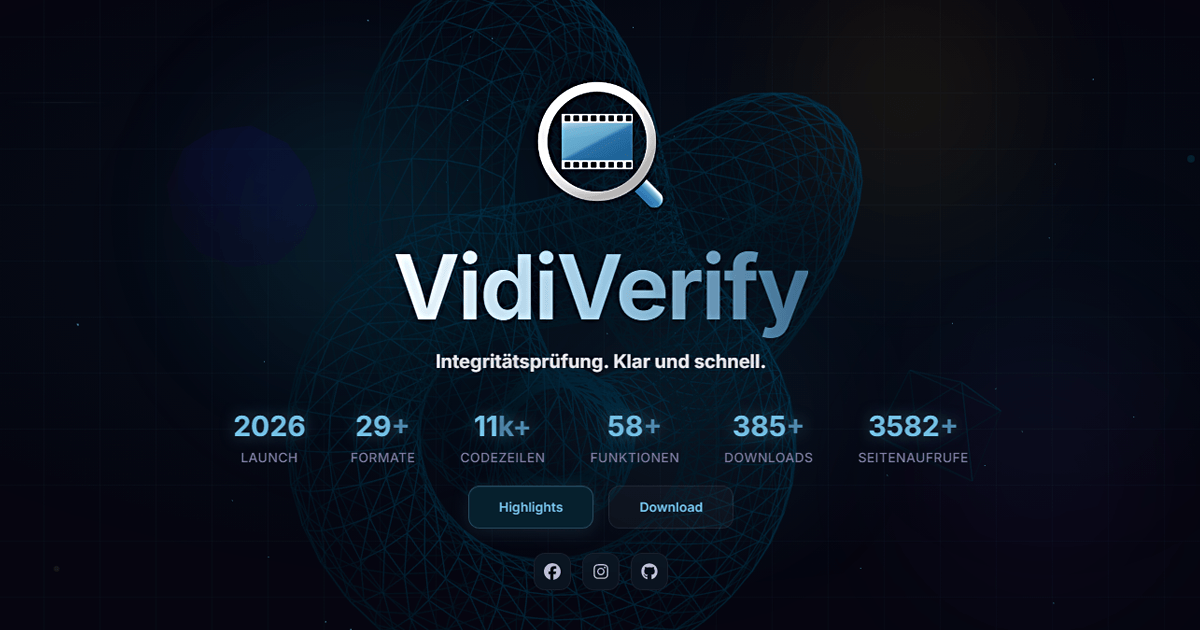
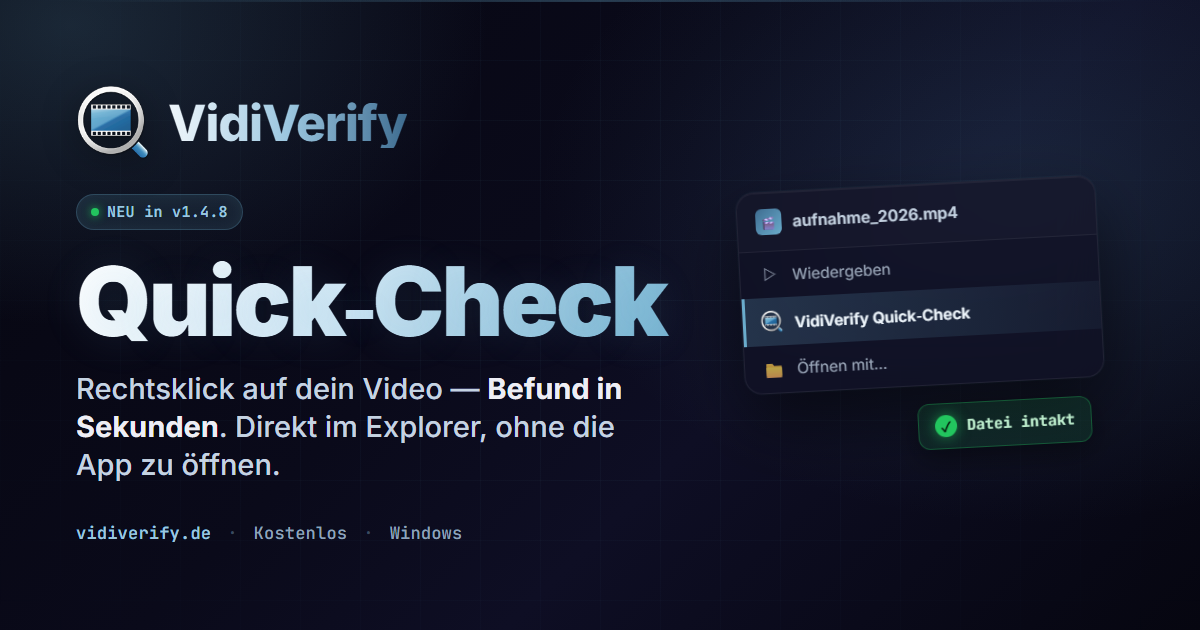
feat(web): Neues OG-Vorschaubild (Quick-Check) + reproduzierbarer Generator
- public/og-image.png neu (1200x630): Quick-Check als Headliner im echten
  Seiten-Look (Tiefschwarz/Cyan, gradient-text-vivid-Wortmarke, Glas-
  Kontextmenue-Mock mit „VidiVerify Quick-Check" + grünem „Datei intakt")
- tools/og-image/: reproduzierbarer Generator — og_card.template.html
  (RELEASE-Stellen: Pille/Headline/Subline), build-og.mjs (Logo als base64
  eingebettet, Render via lokalem Chrome/Edge headless), README.md
- index.html: og:image:alt / twitter:image:alt aufs neue Motiv (Quick-Check)
- eslint.config.js: tools/** ignorieren (Node-Hilfsskripte, wie scripts/**)

Beim Crawlen von vidiverify.de/.com (Facebook/X/LinkedIn/WhatsApp/Discord)
wird ab jetzt dieses Bild als Link-Thumbnail geholt.

diff --git a/tools/og-image/og_card.template.html b/tools/og-image/og_card.template.html
@@ -1,0 +1,186 @@
+<!doctype html>
+<html lang="de">
+<head>
+<meta charset="utf-8" />
+<!--
+  OG-Card-Template fuer vidiverify.de (1200x630).
+  Beim Release nur die markierten Textstellen anpassen (Pille-Version,
+  Headline, Subline), dann `node tools/og-image/build-og.mjs` ausfuehren.
+  __LOGO_B64__ wird vom Build-Skript durch das eingebettete Logo ersetzt.
+-->
+<style>
+@import url('https://fonts.googleapis.com/css2?family=Inter:wght@400;500;600;700;800;900&family=JetBrains+Mono:wght@500;600&display=swap');
+
+* { margin:0; padding:0; box-sizing:border-box; }
+
+html,body {
+  width:1200px; height:630px; overflow:hidden;
+  font-family:"Inter", system-ui, -apple-system, "Segoe UI", sans-serif;
+  -webkit-font-smoothing:antialiased;
+}
+
+.card {
+  position:relative; width:1200px; height:630px; overflow:hidden;
+  background:
+    radial-gradient(820px 560px at 86% 30%, rgba(74,125,160,0.20), transparent 60%),
+    radial-gradient(720px 520px at 6% 4%, rgba(106,172,204,0.20), transparent 58%),
+    linear-gradient(135deg, #060610 0%, #0a0a1a 42%, #0e0e24 62%, #060610 100%);
+  color:#eeeef5;
+}
+
+/* feines Raster */
+.grid {
+  position:absolute; inset:0;
+  background-image:
+    linear-gradient(rgba(106,172,204,0.045) 1px, transparent 1px),
+    linear-gradient(90deg, rgba(106,172,204,0.045) 1px, transparent 1px);
+  background-size:60px 60px;
+  -webkit-mask-image:radial-gradient(900px 600px at 50% 45%, #000 30%, transparent 88%);
+          mask-image:radial-gradient(900px 600px at 50% 45%, #000 30%, transparent 88%);
+}
+
+/* dezente Diagonal-Lichtkante oben */
+.sheen {
+  position:absolute; top:0; left:0; right:0; height:2px;
+  background:linear-gradient(90deg, transparent 6%, rgba(106,172,204,0.30) 50%, transparent 94%);
+}
+
+.inner {
+  position:absolute; inset:0; display:flex; align-items:center;
+  padding:0 76px;
+}
+
+/* linke Spalte */
+.left { width:640px; }
+
+.brandrow { display:flex; align-items:center; gap:18px; margin-bottom:34px; }
+.brandrow img { width:74px; height:74px; filter:drop-shadow(0 6px 18px rgba(0,0,0,0.45)); }
+.wordmark {
+  font-size:50px; font-weight:800; letter-spacing:-1.2px; line-height:1;
+  background:linear-gradient(to right, #f0f7fc, #9cc7e0, #3e6c90);
+  -webkit-background-clip:text; background-clip:text; -webkit-text-fill-color:transparent;
+}
+
+.pill {
+  display:inline-flex; align-items:center; gap:8px;
+  font-family:"JetBrains Mono", ui-monospace, monospace;
+  font-size:15px; font-weight:600; letter-spacing:0.3px;
+  color:#9cc7e0; padding:7px 14px; border-radius:999px;
+  background:rgba(106,172,204,0.10);
+  border:1px solid rgba(106,172,204,0.28);
+  box-shadow:0 0 18px rgba(106,172,204,0.10) inset;
+  margin-bottom:24px;
+}
+.pill .dot { width:8px; height:8px; border-radius:50%; background:#22c55e; box-shadow:0 0 10px #22c55e; }
+
+h1 {
+  font-size:96px; font-weight:900; letter-spacing:-3px; line-height:0.98;
+  margin-bottom:22px;
+  background:linear-gradient(120deg, #ffffff 0%, #cfe6f4 42%, #6aaccc 100%);
+  -webkit-background-clip:text; background-clip:text; -webkit-text-fill-color:transparent;
+  text-shadow:0 2px 40px rgba(106,172,204,0.12);
+}
+
+.sub { font-size:29px; font-weight:500; line-height:1.32; color:#c5d3e2; max-width:585px; }
+.sub b { color:#eeeef5; font-weight:700; }
+
+.meta {
+  margin-top:38px; display:flex; align-items:center; gap:16px;
+  font-family:"JetBrains Mono", ui-monospace, monospace;
+  font-size:17px; color:#8fa3bb; letter-spacing:0.2px;
+}
+.meta .sep { color:#3a4a60; }
+.meta .url { color:#9cc7e0; font-weight:600; }
+
+/* rechte Spalte: Kontextmenue-Mock */
+.right { flex:1; display:flex; align-items:center; justify-content:center; }
+
+.menu {
+  width:360px; border-radius:18px; overflow:hidden;
+  background:rgba(15,15,35,0.72);
+  border:1px solid rgba(255,255,255,0.07);
+  box-shadow:0 30px 70px rgba(0,0,0,0.55), 0 0 0 1px rgba(106,172,204,0.05),
+             inset 0 1px 0 rgba(255,255,255,0.05);
+  backdrop-filter:blur(20px);
+  transform:rotate(-3deg);
+}
+.menu .fname {
+  display:flex; align-items:center; gap:11px;
+  padding:16px 18px; font-size:16px; color:#c5d3e2; font-weight:600;
+  border-bottom:1px solid rgba(255,255,255,0.06);
+  background:rgba(255,255,255,0.02);
+}
+.menu .fname .ico {
+  width:26px; height:26px; border-radius:6px;
+  background:linear-gradient(135deg,#3e6c90,#6aaccc);
+  display:flex; align-items:center; justify-content:center;
+  font-size:13px;
+}
+.menu .row {
+  display:flex; align-items:center; gap:12px;
+  padding:13px 18px; font-size:15.5px; color:#9aa6b8;
+}
+.menu .row.active {
+  color:#eef6fc; font-weight:600;
+  background:linear-gradient(90deg, rgba(106,172,204,0.22), rgba(106,172,204,0.06));
+  border-left:3px solid #6aaccc; padding-left:15px;
+}
+.menu .row img { width:22px; height:22px; }
+.menu .row .glyph { width:22px; text-align:center; opacity:0.7; }
+
+.result {
+  margin-top:14px; display:flex; align-items:center; gap:10px;
+  padding:11px 16px; border-radius:12px; width:max-content;
+  margin-left:auto; margin-right:8px;
+  background:rgba(34,197,94,0.12); border:1px solid rgba(34,197,94,0.32);
+  color:#bff0cf; font-size:15px; font-weight:600;
+  font-family:"JetBrains Mono", ui-monospace, monospace;
+  box-shadow:0 10px 30px rgba(0,0,0,0.4);
+  transform:rotate(-3deg);
+}
+.result .check {
+  width:22px; height:22px; border-radius:50%; background:#22c55e; color:#06210f;
+  display:flex; align-items:center; justify-content:center; font-size:14px; font-weight:900;
+  box-shadow:0 0 14px rgba(34,197,94,0.6);
+}
+</style>
+</head>
+<body>
+<div class="card">
+  <div class="grid"></div>
+  <div class="sheen"></div>
+  <div class="inner">
+    <div class="left">
+      <div class="brandrow">
+        <img src="__LOGO_B64__" alt="VidiVerify" />
+        <span class="wordmark">VidiVerify</span>
+      </div>
+      <!-- RELEASE: Versions-Pille anpassen -->
+      <span class="pill"><span class="dot"></span>NEU in v1.4.8</span>
+      <!-- RELEASE: Headline (Headline-Feature des Releases) -->
+      <h1>Quick&#8209;Check</h1>
+      <!-- RELEASE: Subline (kurze Nutzen-Beschreibung) -->
+      <div class="sub">Rechtsklick auf dein Video &mdash; <b>Befund in Sekunden</b>. Direkt im Explorer, ohne die App zu &ouml;ffnen.</div>
+      <div class="meta">
+        <span class="url">vidiverify.de</span>
+        <span class="sep">&middot;</span>
+        <span>Kostenlos</span>
+        <span class="sep">&middot;</span>
+        <span>Windows</span>
+      </div>
+    </div>
+    <div class="right">
+      <div>
+        <div class="menu">
+          <div class="fname"><span class="ico">&#127916;</span>aufnahme_2026.mp4</div>
+          <div class="row"><span class="glyph">&#9655;</span>Wiedergeben</div>
+          <div class="row active"><img src="__LOGO_B64__" alt="" />VidiVerify Quick&#8209;Check</div>
+          <div class="row"><span class="glyph">&#128193;</span>&Ouml;ffnen mit&hellip;</div>
+        </div>
+        <div class="result"><span class="check">&#10003;</span>Datei intakt</div>
+      </div>
+    </div>
+  </div>
+</div>
+</body>
+</html>

diff --git a/index.html b/index.html
@@ -31,7 +31,7 @@
       <meta property="og:image" content="https://vidiverify.de/og-image.png" />
       <meta property="og:image:width" content="1200" />
       <meta property="og:image:height" content="630" />
-      <meta property="og:image:alt" content="VidiVerify – Der 1-Klick-Check für deine Videos. Logo und Übersicht der unterstützten Formate, Codecs und Container." />
+      <meta property="og:image:alt" content="VidiVerify Quick-Check – Rechtsklick auf eine Videodatei prüft Integrität und Format in Sekunden direkt im Windows-Explorer." />
       <meta property="og:site_name" content="VidiVerify" />
       <meta property="og:locale" content="de_DE" />
 
@@ -43,7 +43,7 @@
          content="VidiVerify – 1-Klick-Check für Videos: Integrität, Format, Codec, MAP-Protokoll – revisionssicher. Für Archive & Plex/Jellyfin. Kostenlos, Windows."
       />
       <meta name="twitter:image" content="https://vidiverify.de/og-image.png" />
-      <meta name="twitter:image:alt" content="VidiVerify – Der 1-Klick-Check für deine Videos. Logo und Übersicht der unterstützten Formate, Codecs und Container." />
+      <meta name="twitter:image:alt" content="VidiVerify Quick-Check – Rechtsklick auf eine Videodatei prüft Integrität und Format in Sekunden direkt im Windows-Explorer." />
 
       <!-- JSON-LD Structured Data -->
       <script type="application/ld+json">

diff --git a/eslint.config.js b/eslint.config.js
@@ -8,7 +8,7 @@ import jsxA11y from "eslint-plugin-jsx-a11y";
 
 export default [
    {
-      ignores: ["build/**", "dist/**", "node_modules/**", "scripts/**"],
+      ignores: ["build/**", "dist/**", "node_modules/**", "scripts/**", "tools/**"],
    },
    js.configs.recommended,
    ...tseslint.configs.recommended,

diff --git a/tools/og-image/README.md b/tools/og-image/README.md
@@ -1,0 +1,38 @@
+# OG-Image-Generator
+
+Erzeugt das Open-Graph-Vorschaubild `public/og-image.png` (1200×630) — das
+Bild, das Facebook, X, LinkedIn, WhatsApp, Discord & Co. als Thumbnail
+anzeigen, wenn jemand `vidiverify.de` / `vidiverify.com` als Link postet.
+
+Die Meta-Tags in `index.html` (`og:image`, `twitter:image`) zeigen auf den
+festen Pfad `https://vidiverify.de/og-image.png`. Wir tauschen also nur die
+Datei aus — die Tags bleiben unveraendert.
+
+## Bei jedem Release neu setzen
+
+1. In `og_card.template.html` die drei mit `RELEASE:` markierten Stellen
+   anpassen:
+   - **Versions-Pille** (`NEU in vX.Y.Z`)
+   - **Headline** (das Headline-Feature des Releases)
+   - **Subline** (kurze Nutzen-Beschreibung)
+2. Generator laufen lassen (aus dem Repo-Root):
+   ```
+   node tools/og-image/build-og.mjs
+   ```
+   Rendert per lokal installiertem Chrome/Edge (headless) nach
+   `public/og-image.png`.
+3. Ergebnis sichten, dann committen + pushen.
+4. **Cache der Plattformen leeren**, sonst zeigen sie weiter das alte Bild:
+   - Facebook/WhatsApp: <https://developers.facebook.com/tools/debug/> →
+     URL eingeben → „Scrape Again"
+   - X/Twitter: <https://cards-dev.twitter.com/validator>
+   - LinkedIn: <https://www.linkedin.com/post-inspector/>
+
+## Hinweise
+
+- Schrift (Inter + JetBrains Mono) wird beim Rendern von Google Fonts
+  geladen — die Maschine braucht kurz Internet. Fallback ist Segoe UI.
+- `og:image:alt` / `twitter:image:alt` in `index.html` beschreiben den
+  Bildinhalt fuer Screenreader/SEO — bei groesserem Motivwechsel mitziehen.
+- Das Logo wird automatisch aus `public/logo.png` eingebettet; kein
+  manuelles base64 noetig.
